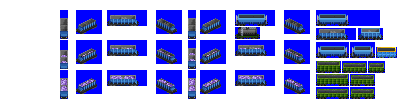
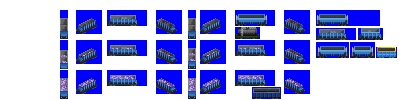
Change: remove coal cars, cargo-specific cars should have no refits, and a no-refit coal car is weird compared to ~30 other bulk cargos

Changed region(s): [[0.78, 0.6, 0.96, 0.99], [0.63, 0.87, 0.72, 0.99]]

diff --git a/src/global_constants.py b/src/global_constants.py
@@ -21,7 +21,6 @@ buy_menu_sort_order_wagons = ['metro_car',
                               'reefer_car',
                               'fruit_car',
                               'intermodal_flat_car',
-                              'coal_car',
                               'log_car',
                               'metal_car',
                               'supplies_car',

diff --git a/src/vehicles/rotary_gondola_cars.py b/src/vehicles/rotary_gondola_cars.py
@@ -11,7 +11,7 @@ def main():
                             vehicle_life = 40)
 
     consist.add_unit(Wagon(consist = consist,
-                           capacity_freight = 40,
+                           capacity_freight = 20,
                            weight = 10,
                            vehicle_length = 4))
 

diff --git a/src/iron_horse.py b/src/iron_horse.py
@@ -42,9 +42,6 @@ caboose_cars.main()
 from vehicles import covered_hopper_cars
 covered_hopper_cars.main()
 
-from vehicles import coal_cars
-coal_cars.main()
-
 from vehicles import edibles_tank_cars
 edibles_tank_cars.main()
 
